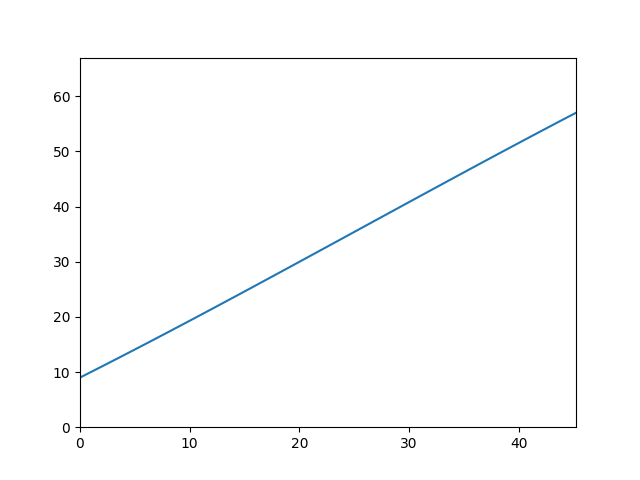
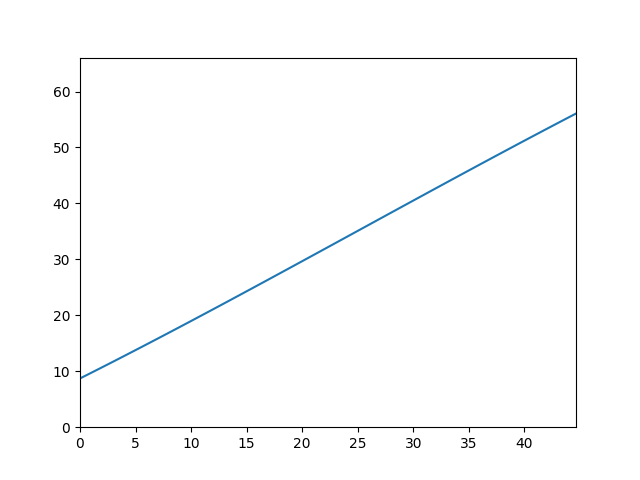
Meas

diff --git a/derailleurs/Shimano Deore M6100/default.htm b/derailleurs/Shimano Deore M6100/default.htm
@@ -25,19 +25,19 @@ Shimano Deore 12-Speed
   </tr>
   <tr>
     <th>Curve Coefficients</th>
-    <td>9.00, 1.002, 0.00316, -0.000041</td>
+    <td>8.71, 0.997, 0.00347, -0.000046</td>
   </tr>
   <tr>
     <th>Physical Low Limit</th>
-    <td>9.00</td>
+    <td>8.71</td>
   </tr>
   <tr>
     <th>Physical High Limit</th>
-    <td>56.99</td>
+    <td>56.06</td>
   </tr>
   <tr>
     <th>Pull Ratio Averaged Across Pulling Runs</th>
-    <td>1.073 +/- 0.000</td>
+    <td>1.072 +/- 0.001</td>
   </tr>
   <tr>
     <th>Pull Ratio Averaged Across Relaxing Runs</th>
@@ -45,11 +45,11 @@ Shimano Deore 12-Speed
   </tr>
   <tr>
     <th>Pull Ratio Averaged Across All Runs</th>
-    <td>1.073 +/- 0.001</td>
+    <td>1.073 +/- 0.002</td>
   </tr>
   <tr>
     <th>Pull Ratio 95% Confidence Interval</th>
-    <td>1.072 to 1.074</td>
+    <td>1.071 to 1.074</td>
   </tr>
   
   
@@ -82,6 +82,16 @@ Shimano Deore 12-Speed
 <a href="pullratio/2025-01-18 15-13 PM Pulling.csv">Raw Measurement Data</a>
 <figure>
 <img src="pullratio/2025-01-18 15-13 PM Pulling.png"/>
+<figcaption>Data and best fit line, excluding points taken at limits</figcaption>
+</figure>
+</section>
+
+
+<section>
+<h2>2025-01-18 15-53 PM Pulling</h2>
+<a href="pullratio/2025-01-18 15-53 PM Pulling.csv">Raw Measurement Data</a>
+<figure>
+<img src="pullratio/2025-01-18 15-53 PM Pulling.png"/>
 <figcaption>Data and best fit line, excluding points taken at limits</figcaption>
 </figure>
 </section>
